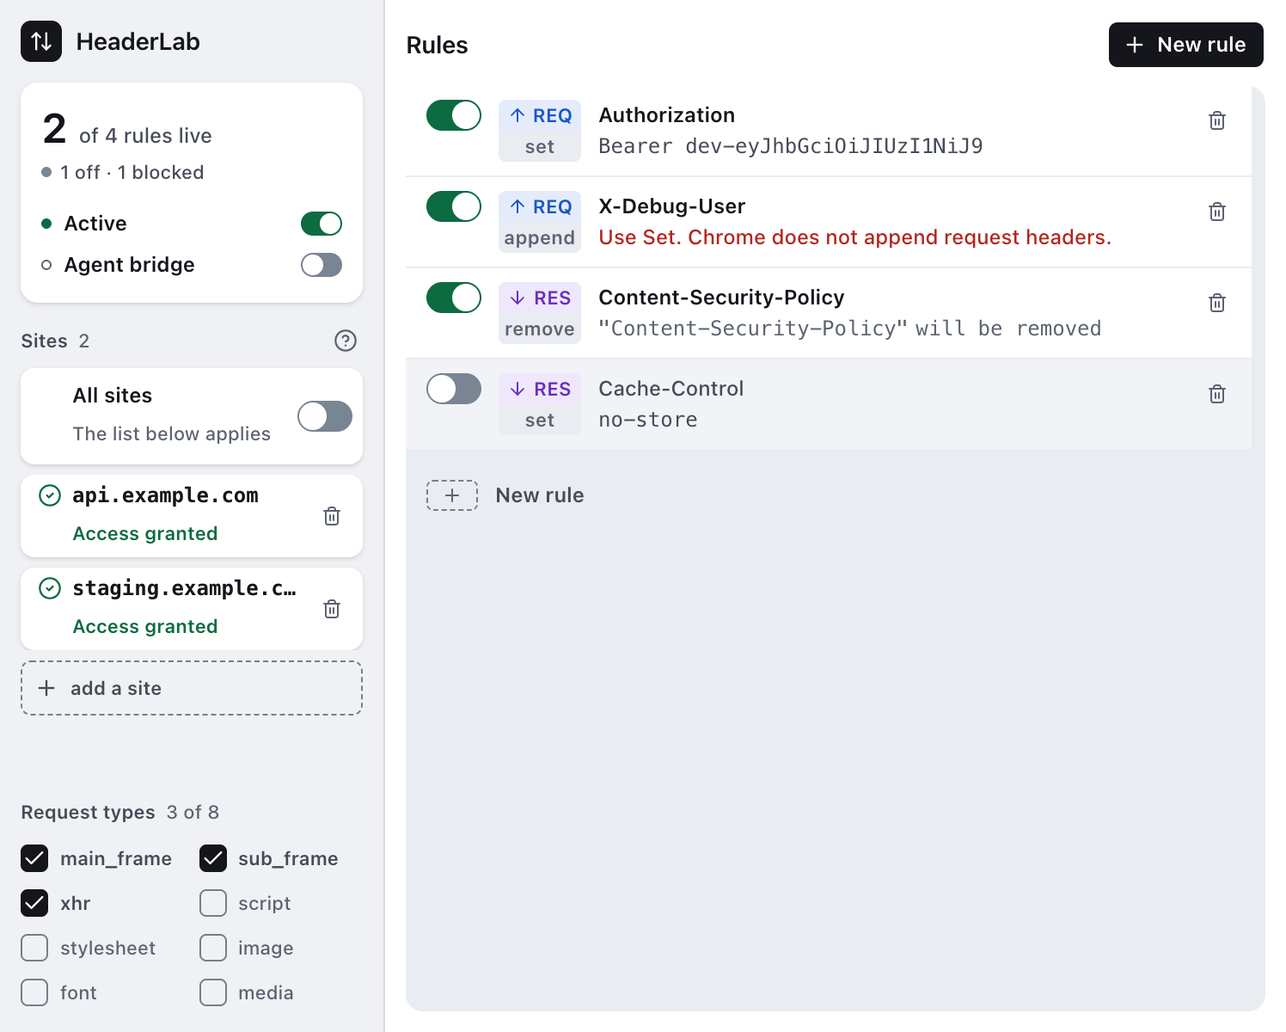
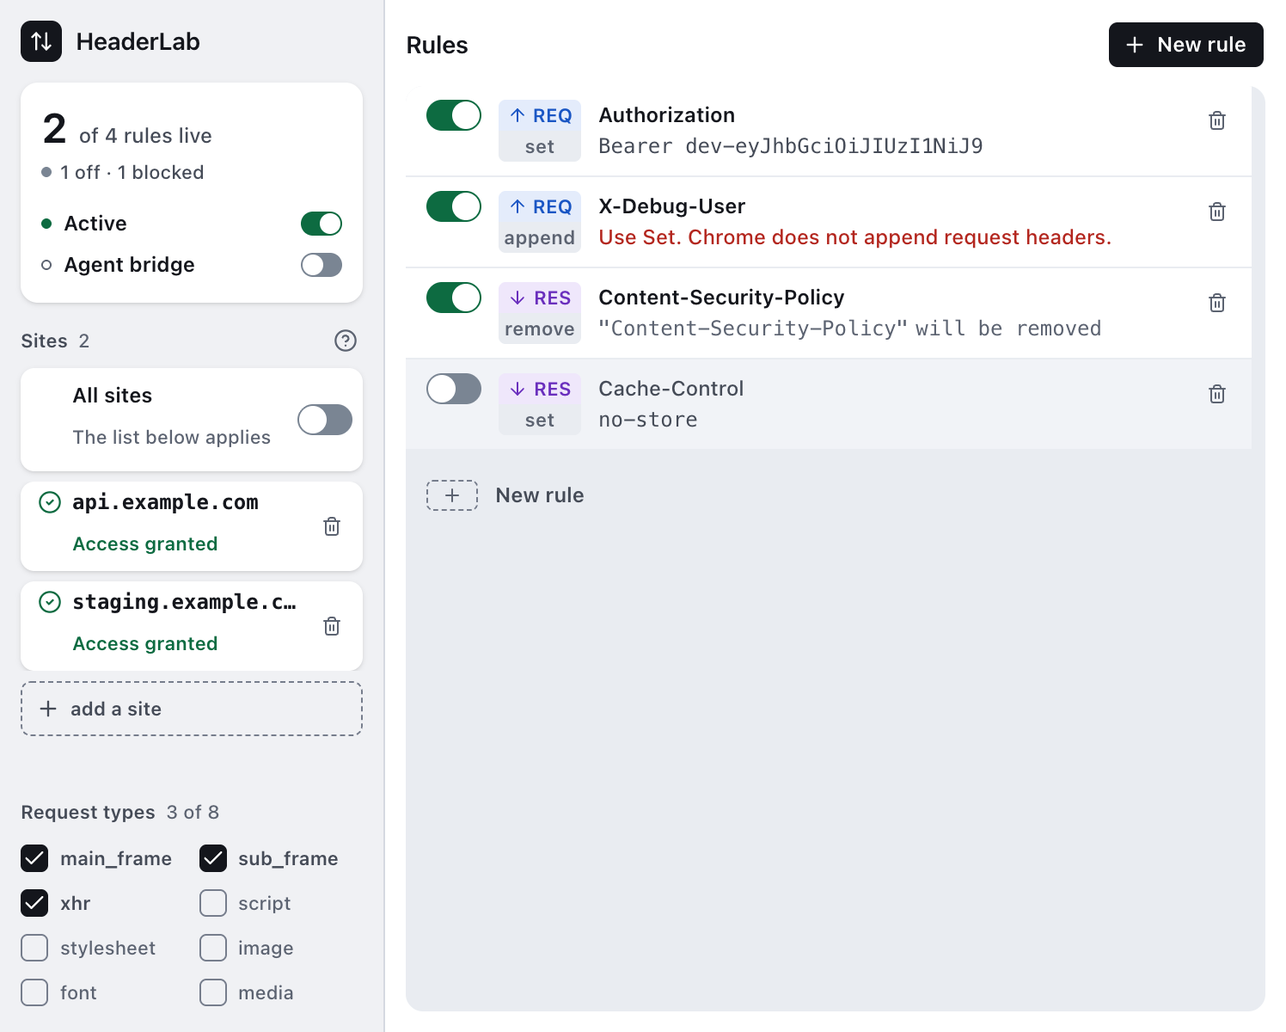
fix: standard xs Grant, a working + control, and a visible armed state
Four refinements from local testing of the review branch:

- The Grant button is the plain shadcn Button — `secondary` variant,
  `xs` size, nothing painted over it — shared by the site row and the
  all-sites bar via one props constant (GRANT_BUTTON_PROPS). The amber
  custom class is gone; the state's amber lives where it already was,
  on the row's glyph and the readout's clause, and the remedy is an
  uncoloured standard control. The standard xs is 24px, so the rows'
  reserved second lines grew h-5 -> h-6 and the rows 48 -> 52px — the
  Interface rule's "size the container to its largest state" applied to
  the new tallest tenant. Every derived figure is re-measured, not
  scaled: the under-pressure list 55 -> 51, the rail leftover 13 -> 9px,
  and the pitch arithmetic in the site-list docblock. The contrast
  guard's Grant pair moves with the button (foreground on tray, the
  well's own pair).
- The add-field's + is a control now, not decoration: clicking it does
  what Enter does, it carries an accessible name and cursor-pointer, and
  an empty click adds nothing (blank input is dropped, same as Enter).
  Shaped like the ? help trigger rather than a shadcn Button because it
  overlays the input's own measured geometry.
- The armed delete is visible: the first click paints the box with
  shadcn's destructive fill tokens and the title says what the second
  click does, because a 12px glyph changing ink is invisible at a
[…]

Changed region(s): [[0.0307, 0.37, 0.2767, 0.7092], [0.246, 0.5858, 0.2767, 0.6167]]

diff --git a/components/SiteRow.tsx b/components/SiteRow.tsx
@@ -103,24 +103,24 @@ const STATE_LINE_TONE: Record<RowState, string> = {
 } as const;
 
 /**
- * The Grant button's classes, exported so `ScopeRail`'s all-sites bar can use
- * the exact same ones for its own Grant button.
+ * The Grant button's shape, stated once because two rows render it — this
+ * one and `ScopeRail`'s all-sites bar.
  *
  * "All-sites reaches the same state, so it must offer the same remedy rather
  * than a second vocabulary" (CLAUDE.md, No silent failures) — a pending site
  * and an on-but-ungranted all-sites mode are the same fact (waiting on the
- * same kind of permission), so one class string shared by both call sites is
- * what makes that promise hold by construction instead of by two people
- * remembering to keep two copies in sync.
- *
- * `hover:bg-pending-bg` is not decorative: shadcn's `secondary` variant ships
- * `hover:bg-tray/80`, and `bg-pending-bg` above only overrides the base
- * (unprefixed) utility — `twMerge` treats a `hover:`-prefixed class as a
- * different group, so without this the button's fill would flash grey on
- * hover. Verified in the built CSS.
+ * same kind of permission), so both wear the plain shadcn `secondary` button
+ * at the `xs` size with nothing painted over it. It used to carry an amber
+ * custom class; the state's amber now lives where it already was — the row's
+ * glyph and the readout's clause — and the button is the standard control
+ * rather than a one-off. The standard `xs` is 24px, which is why the second
+ * line reserves `h-6` below: the line is sized to the tallest thing it can
+ * hold, and that is this button.
  */
-export const GRANT_BUTTON_CLASS =
-  'h-5 rounded-[4px] bg-pending-bg text-pending hover:bg-pending-bg';
+export const GRANT_BUTTON_PROPS = {
+  variant: 'secondary',
+  size: 'xs',
+} as const;
 
 export function SiteRow({ domain, usable, inert, diagnostics, onGrant, onRemove }: SiteRowProps) {
   /**
@@ -197,7 +197,7 @@ export function SiteRow({ domain, usable, inert, diagnostics, onGrant, onRemove 
     <div
       ref={rowRef}
       tabIndex={-1}
-      className="flex h-12 items-center gap-1 rounded-lg bg-card pt-1 pr-1.5 pb-1 pl-2.5 shadow-sm"
+      className="flex h-[52px] items-center gap-1 rounded-lg bg-card pt-1 pr-1.5 pb-1 pl-2.5 shadow-sm"
       data-testid="site"
       data-state={state}
     >
@@ -265,13 +265,11 @@ export function SiteRow({ domain, usable, inert, diagnostics, onGrant, onRemove 
           computed and dropped. A `title` is the zero-pixel path: the second
           line stays empty as decided above, and a pointer that hovers gets
           the whole explanation. */}
-        <span className="flex h-5 items-center pl-5" data-testid="site-line">
+        <span className="flex h-6 items-center pl-5" data-testid="site-line">
           {awaitingGrant !== undefined && state !== 'unusable' && state !== 'idle' ? (
             <Button
-              size="xs"
-              variant="secondary"
+              {...GRANT_BUTTON_PROPS}
               data-testid="site-pending"
-              className={GRANT_BUTTON_CLASS}
               title={awaitingGrant.message}
               onClick={() => onGrant(awaitingGrant.host!)}
             >
@@ -293,15 +291,26 @@ export function SiteRow({ domain, usable, inert, diagnostics, onGrant, onRemove 
           the row, on its destructive control, while the identical button on a
           rule row already wears `--muted-foreground`. The mockup's `.te-icb`
           is `--ink-3`; this is that, and it is what makes the two delete
-          buttons one control rather than two. Armed, it borrows
-          `text-destructive` and says so in its name, exactly as the rule
-          row's delete does — same box, same position, second click. */}
+          buttons one control rather than two.
+
+          Armed has to be *seen*, not inferred: a 12px glyph changing ink is
+          invisible at a glance, which is how a two-click guard reads as "the
+          button is broken". The armed state paints the box — shadcn's own
+          `destructive` fill tokens, `bg-destructive/10` — so the control
+          visibly changes state while its geometry does not, and the title
+          says what the second click does for a pointer that hovers. Same
+          shape as the rule row's delete, one hook (useArmed). */}
       <Button
         variant="ghost"
         size="icon-xs"
         aria-label={del.armed ? `Confirm removal of ${domain}` : `Remove ${domain}`}
+        title={del.armed ? `Click again to remove ${domain}` : undefined}
         {...del.controlProps}
-        className={del.armed ? 'text-destructive' : 'text-muted-foreground'}
+        className={
+          del.armed
+            ? 'bg-destructive/10 text-destructive hover:bg-destructive/10 hover:text-destructive'
+            : 'text-muted-foreground'
+        }
       >
         <Trash2 />
       </Button>

diff --git a/components/ScopeRail.tsx b/components/ScopeRail.tsx
@@ -1,6 +1,6 @@
 import { ArrowUpDown, CircleHelp, Globe } from 'lucide-react';
 import { AddSiteField, type AddSiteResult } from './AddSiteField';
-import { GRANT_BUTTON_CLASS, SiteRow } from './SiteRow';
+import { GRANT_BUTTON_PROPS, SiteRow } from './SiteRow';
 import { OFFERED_TYPES, TypeChecklist } from './TypeChecklist';
 import { Button } from '@/components/ui/button';
 import { Switch } from '@/components/ui/switch';
@@ -134,7 +134,7 @@ const NOTE_CLASS =
  * palette, not the same size. The two inside the readout card (run state and
  * bridge) are `sm`, because that card's rows are 20px and a 14px control sits
  * inside one without crowding the label; the all-sites switch keeps the
- * default 18.4px, since it heads a 48px section rather than a readout line.
+ * default 18.4px, since it heads a 60px section rather than a readout line.
  */
 const SWITCH_CLASS = 'data-checked:bg-live [&_[data-slot=switch-thumb]]:dark:bg-white';
 
@@ -808,7 +808,7 @@ export function ScopeRail({
             made the empty list mean two things in the first place. */}
 
         <div
-          className="mx-3 flex h-14 shrink-0 items-center gap-1 rounded-lg bg-card pt-2 pr-1.5 pb-2 pl-2.5 shadow-sm"
+          className="mx-3 flex h-[60px] shrink-0 items-center gap-1 rounded-lg bg-card pt-2 pr-1.5 pb-2 pl-2.5 shadow-sm"
           data-testid="all-sites"
           data-granted={allSitesState === 'pending' ? 'no' : undefined}
         >
@@ -843,7 +843,8 @@ export function ScopeRail({
             </div>
 
             {/* The second line, reserved in every state and sized to the
-                tallest thing it can hold — the Grant button — exactly as a
+                tallest thing it can hold — the Grant button, which is the
+                shadcn `xs` height this line's `h-6` reserves — exactly as a
                 site row's is. The mode being on and the access being missing
                 is *said* here rather than left to a tint, in the same words a
                 pending site row uses, because it is the same state.
@@ -855,14 +856,9 @@ export function ScopeRail({
                 switch moving. Every way of reaching this state — turning the
                 mode on, declining once, or a store migrated from a build that
                 never asked — therefore arrives at the same button. */}
-            <span className="flex h-5 items-center pl-5">
+            <span className="flex h-6 items-center pl-5">
               {allSitesState === 'pending' ? (
-                <Button
-                  size="xs"
-                  variant="secondary"
-                  className={GRANT_BUTTON_CLASS}
-                  onClick={onGrantAllSites}
-                >
+                <Button {...GRANT_BUTTON_PROPS} onClick={onGrantAllSites}>
                   Grant
                 </Button>
               ) : (
@@ -902,14 +898,15 @@ export function ScopeRail({
             there, not in use — and each row says so on its own second line.
 
             The height stops at 127px, which is deliberately NOT a multiple of
-            the 54px row pitch: two rows and the gap after them are 108px and
-            three are 156px, so a third site leaves that row cut across the
-            middle — 19px of 48, not the wider 24px an unpressured rail
-            could afford — and the cut row is the affordance saying the list
-            continues regardless of exactly how much of it shows. 156 or 162
+            the row pitch — 58px since the rows grew to 52 for the standard
+            `xs` Grant (two rows and the gap after them are 110px, three are
+            168px), so a third site leaves that row cut across the middle —
+            17px of 52 — and the cut row is the affordance saying the list
+            continues regardless of exactly how much of it shows. 110 or 168
             would each show a whole number of rows and say nothing; nor would
-            108, which is why the cap sits above two full rows rather than at
-            them. The reference mockup capped the list at a fixed 176px, which
+            116 (two 58px pitches), which is why the cap sits above two full
+            rows rather than at them. The reference mockup capped the list at
+            a fixed 176px, which
             this does not copy — a hard cap opens a hole between the last site
             and everything below it when there are only one or two.
             `max-height` lets the list be as tall as it has content for, and

diff --git a/tests/e2e/header-modification.spec.ts b/tests/e2e/header-modification.spec.ts
@@ -1463,6 +1463,9 @@ test('목록이 넘쳐도 잘리지 않고, 주변은 움직이지 않는다', a
   // 것이 이 단언의 존재 이유다. 36 은 여전히 목록이 완전히 접히지 않고 한
   // 행의 일부(48 중 36)를 보여주며 listScrolls: true 로 남아 있어, "목록만
   // 양보하고 이웃은 그대로"라는 이 단언의 주제를 여전히 보여준다.
+  // (그 뒤 55 를 거쳐 51: AddSiteField 의 예약 줄이 사라지며 48 행이 되고,
+  // 다시 표준 xs Grant 를 위한 all-sites 바의 4px 로 51 이 되었다. 아래의
+  // 정확값 단언이 현재 값이다.)
   const underPressure = await unusablePage.evaluate(() => {
     const rail = document.querySelector('aside')!;
     const list = document.querySelector('[data-testid="site-list"]')!;
@@ -1478,10 +1481,14 @@ test('목록이 넘쳐도 잘리지 않고, 주변은 움직이지 않는다', a
   // above this list, so the list — the only child allowed to give way — is
   // what gets them back. Under the same pressure it now shows more, which is
   // the direction this assertion exists to protect.
+  // 55 -> 51: the all-sites bar's reserved second line grew h-5 -> h-6 for
+  // the standard shadcn `xs` Grant (24px), so 4px of fixed rail content above
+  // the list comes out of the list again. Same direction, smaller figure —
+  // re-measured, not derived.
   expect(underPressure).toEqual({
     notes: 1,
     railScrolls: false,
-    listHeight: 55,
+    listHeight: 51,
     listScrolls: true,
   });
   expect(await boxes(unusablePage), '압력을 받아도 요청 타입은 제자리다').toEqual(before);
@@ -1590,7 +1597,9 @@ test('목록이 넘쳐도 잘리지 않고, 주변은 움직이지 않는다', a
     new Set(['granted', 'pending', 'unusable']),
   );
   expect(new Set(lineHeights.map((l) => l.line)).size).toBe(1);
-  expect(new Set(lineHeights.map((l) => l.row))).toEqual(new Set([48]));
+  // 48 -> 52: 행의 예약 둘째 줄이 h-5 -> h-6 (표준 shadcn xs Grant 의 24px 에
+  // 맞춘 것 — 줄은 자기가 담을 수 있는 가장 큰 것에 사이즈를 맞춘다).
+  expect(new Set(lineHeights.map((l) => l.row))).toEqual(new Set([52]));
 
   // Grant 버튼이 그 띠 안에 온전히 들어간다.
   const grantFits = await page.evaluate(() => {
@@ -1727,8 +1736,9 @@ test('목록이 넘쳐도 잘리지 않고, 주변은 움직이지 않는다', a
   // 1b. 목록이 넘칠 때, 가장자리 행이 중간에서 잘린다.
   //
   //     그 잘린 행이 "더 있다"는 신호다. `site-list` 의 max-height 는 행
-  //     피치(48 + 6 = 54)의 정수배가 **아니게** 잡혀 있고, 이것이 그 선택을
-  //     직접 재는 단언이다 — 정수배로 바꾸면 잘린 행이 사라져 빨개진다.
+  //     피치(52 + 6 = 58, 2026-08-18 의 행 높이부터)의 정수배가 **아니게**
+  //     잡혀 있고, 이것이 그 선택을 직접 재는 단언이다 — 정수배로 바꾸면
+  //     잘린 행이 사라져 빨개진다.
   //
   //     스크롤바가 보인다고 가정하지 않는다는 원래 주석의 취지가 여기 산다.
   //     macOS 의 기본 스크롤바는 오버레이라 자리도 차지하지 않고 곧 사라진다

diff --git a/components/RuleCard.tsx b/components/RuleCard.tsx
@@ -610,9 +610,16 @@ export function RuleCard({ rule, diagnostics, onPatch, onDelete, autoFocus }: Ru
                   // Shift+Enter keeps the newline; a bare Enter is a commit —
                   // the same bargain the pre-mockup value editor struck, and
                   // the reason it is a textarea rather than an input again.
+                  // Enter also leaves the field: a commit is the end of an
+                  // edit, and a caret still sitting in a committed value
+                  // invites typing that restarts the cycle the key was meant
+                  // to close. The blur re-fires `commit`, which is a no-op
+                  // for an already-sent draft (`useCommittedDraft` guards on
+                  // what it last sent).
                   if (e.key === 'Enter' && !e.shiftKey) {
                     e.preventDefault();
                     value.commit();
+                    e.currentTarget.blur();
                   } else if (e.key === 'Escape') {
                     e.preventDefault();
                     value.cancel();
@@ -654,16 +661,23 @@ export function RuleCard({ rule, diagnostics, onPatch, onDelete, autoFocus }: Ru
             row's full-strength ink, the loudest colour in the row, on the
             control that is destructive. The mockup's `.te-icb` and the old
             `.hl-del` both wear `--muted-foreground`; this restores that.
-            Armed, the same control borrows `text-destructive` and offers its
-            second click in its name — the box, the icon and the position are
-            the same in both states, which is the whole of how it avoids the
-            Interface rule's forbidden reflow. See `useArmed`. */}
+            Armed has to be *seen*, not inferred from a 12px glyph changing
+            ink: the state paints the box with shadcn's own `destructive`
+            fill tokens, the title says what the second click does, and the
+            box, the icon and the position are the same in both states —
+            which is the whole of how it avoids the Interface rule's
+            forbidden reflow. See `useArmed`. */}
       <Button
         variant="ghost"
         size="icon-xs"
         aria-label={del.armed ? 'Confirm delete rule' : 'Delete rule'}
+        title={del.armed ? 'Click again to delete this rule' : undefined}
         {...del.controlProps}
-        className={del.armed ? 'text-destructive' : 'text-muted-foreground'}
+        className={
+          del.armed
+            ? 'bg-destructive/10 text-destructive hover:bg-destructive/10 hover:text-destructive'
+            : 'text-muted-foreground'
+        }
       >
         <Trash2 />
       </Button>

diff --git a/components/AddSiteField.tsx b/components/AddSiteField.tsx
@@ -67,15 +67,29 @@ export function AddSiteField({ onAdd }: AddSiteFieldProps) {
           element because the e2e layout guard measures *this* box — an outer
           div carrying the border while the input sat inside it, padded
           smaller, would measure a rectangle the user never sees as "the
-          control". The icon is the one piece that cannot live on the input
-          itself, so it is positioned over it from a `relative` wrapper that
-          adds no border, padding or margin of its own — it does not change
-          what the input's own rect is. */}
+          control". The plus cannot live on the input itself, so it is
+          positioned over it from a `relative` wrapper that adds no border,
+          padding or margin of its own — it does not change what the input's
+          own rect is.
+
+          The plus is a control, not a decoration: clicking it does exactly
+          what Enter does (`add`), because a glyph sitting inside a field
+          reads as part of the field's behaviour and a click that does
+          nothing is a button that lies. Shaped like the `?` help trigger in
+          the section heading above (20px box, 14px glyph, tone on hover)
+          rather than a shadcn Button — it is an overlay on the input's own
+          geometry, and the standard sizes would move what the layout guard
+          measures. `cursor-pointer` because a Chromium button's default
+          arrow says "not clickable" at a glance. */}
       <div className="relative">
-        <Plus
-          aria-hidden="true"
-          className="pointer-events-none absolute top-1/2 left-2 size-3.5 -translate-y-1/2 text-foreground-2"
-        />
+        <button
+          type="button"
+          aria-label="Add the typed site"
+          onClick={add}
+          className="absolute top-1/2 left-1.5 flex size-5 -translate-y-1/2 cursor-pointer items-center justify-center rounded-[4px] text-foreground-2 hover:text-foreground"
+        >
+          <Plus aria-hidden="true" className="size-3.5" />
+        </button>
         <Input
           aria-label="Add a site"
           data-testid="add-field"

diff --git a/tests/unit/contrast.test.ts b/tests/unit/contrast.test.ts
@@ -358,14 +358,16 @@ const TEXT_PAIRS: ReadonlyArray<readonly [string, string, string]> = [
   ['row state line, granted', '--live', '--card'],
   ['row state line, unusable', '--destructive', '--card'],
   ['row state line, not in use — All sites is on', '--muted-foreground', '--card'],
-  // The Grant button (shadcn Button, `secondary` variant, size `xs`) wears the
-  // same pale fill/ink pair as the mockup's `.te-btn--subtle` and as the
-  // all-sites bar's own ungranted label two rows up — the same state gets the
-  // same vocabulary everywhere it appears.
+  // The Grant button is the plain shadcn Button, `secondary` variant, size
+  // `xs`, shared by the site row and the all-sites bar — the standard
+  // fill/ink pair the well behind the rule rows already pins two entries
+  // below, stated here too because this is the one button whose subject is
+  // access. The amber that used to paint it lives on the row's glyph and
+  // the readout's clause; the remedy itself is deliberately uncoloured.
   [
-    'Grant button label — Button secondary, shared by the site row and the all-sites bar (SiteRow.GRANT_BUTTON_CLASS)',
-    '--pending',
-    '--pending-bg',
+    'Grant button label — Button secondary, shared by the site row and the all-sites bar (GRANT_BUTTON_PROPS)',
+    '--foreground',
+    '--tray',
   ],
   ['the ? mark — the CircleHelp beside the SITES heading', '--muted-foreground', '--rail'],
   // Two elements, one pairing: the tooltip's own surface (shadcn's

diff --git a/tests/unit/ScopeRail.test.tsx b/tests/unit/ScopeRail.test.tsx
@@ -632,6 +632,25 @@ describe('adding a site', () => {
     expect(field()).toHaveProperty('value', '');
   });
 
+  it('adds from the + inside the field, and asks for nothing when it is empty', async () => {
+    // The plus used to be an `aria-hidden` glyph with `pointer-events-none`
+    // — a mark shaped like a button that did nothing, which is worse than no
+    // mark. It is the field's submit now, and the empty-field half is the
+    // same promise Enter makes: blank input is dropped, not appended.
+    const onAddDomain = vi.fn(() => ({ added: true as const }));
+    renderRail({ onAddDomain });
+    const plus = screen.getByRole('button', { name: 'Add the typed site' });
+    expect(plus.className).toContain('cursor-pointer');
+    await userEvent.click(plus);
+    expect(onAddDomain).not.toHaveBeenCalled();
+
+    await userEvent.type(field(), 'api.example.com');
+    await userEvent.click(plus);
+    expect(onAddDomain).toHaveBeenCalledTimes(1);
+    expect(onAddDomain).toHaveBeenCalledWith('api.example.com');
+    expect(field()).toHaveProperty('value', '');
+  });
+
   it('adds on blur, for a domain typed and then clicked away from', async () => {
     const onAddDomain = vi.fn(() => ({ added: true as const }));
     renderRail({ onAddDomain });

diff --git a/tests/unit/RulePanel.test.tsx b/tests/unit/RulePanel.test.tsx
@@ -128,7 +128,13 @@ describe('RulePanel', () => {
     const second = screen.getAllByTestId('rule')[1]!;
     await userEvent.click(within(second).getByRole('button', { name: 'Delete rule' }));
     expect(onDeleteRule).not.toHaveBeenCalled();
-    await userEvent.click(within(second).getByRole('button', { name: 'Confirm delete rule' }));
+    // Armed is a visible state, not an implied one: a 12px glyph changing ink
+    // is invisible at a glance, so the box itself paints with the destructive
+    // fill — pinned here because that visibility is the whole point of the
+    // two-click guard.
+    const armed = within(second).getByRole('button', { name: 'Confirm delete rule' });
+    expect(armed.className).toContain('bg-destructive/10');
+    await userEvent.click(armed);
     expect(onDeleteRule).toHaveBeenCalledTimes(1);
     expect(onDeleteRule).toHaveBeenCalledWith('b');
   });

diff --git a/CLAUDE.md b/CLAUDE.md
@@ -839,15 +839,17 @@ day and wrongly against the tree three commits later; it is 127px again. Re-meas
 with that design file's `measure()` before spending any figure below — each has moved
 on reasoning that was sound when written.
 
-**The 13px is one row of a table, not a property of the rail.** A single number was
+**The leftover is one row of a table, not a property of the rail.** A single number was
 wrong four times for the same reason every time: the leftover depends on what else is
 on screen, and a figure quoted without its state gets read in the state it was not
-measured in. Measured in the built popup at four saved sites (2026-08-17, headed):
+measured in. Measured in the built popup at four saved sites (2026-08-17, headed;
+re-derived 2026-08-18 when the all-sites bar grew 4px for the standard shadcn `xs`
+Grant — every leftover and note-state list figure moved down 4px with it):
 
 | state of the rail                                  | site list | real leftover |
 | -------------------------------------------------- | --------- | ------------- |
-| no notes above the list                            | 127px     | **13px**      |
-| one error note (`sync-error` or `icon-error`)      | ~47–65px  | **0px**       |
+| no notes above the list                            | 127px     | **9px**       |
+| one error note (`sync-error` or `icon-error`)      | ~43–61px  | **0px**       |
 | both error notes                                   | 0px       | **0px**       |
 
 Under the states that read 0, the shortfall was paid by *overprinting* — the section's
@@ -1086,7 +1088,8 @@ that no longer renders, passing while describing nothing.
   four saved sites *at the time*: the site list's cap is 127px with neither note showing,
   65px with only `sync-error`, 34px with only `icon-error`, and 0px with both — the
   user's saved sites pushed off screen by an error message about something else. The
-  13px softens those three figures without changing the shape of the problem, and they
+  leftover those freed (13px then, 9px since the `xs` Grant re-measure) softens those
+  three figures without changing the shape of the problem, and they
   have not been re-measured since. **A third offender joined them**: `AddSiteField`'s
   duplicate-site note is now created rather than reserved, so it too costs the list
   ~21px when it appears. That one is bounded — it is guaranteed one line, asserted in
